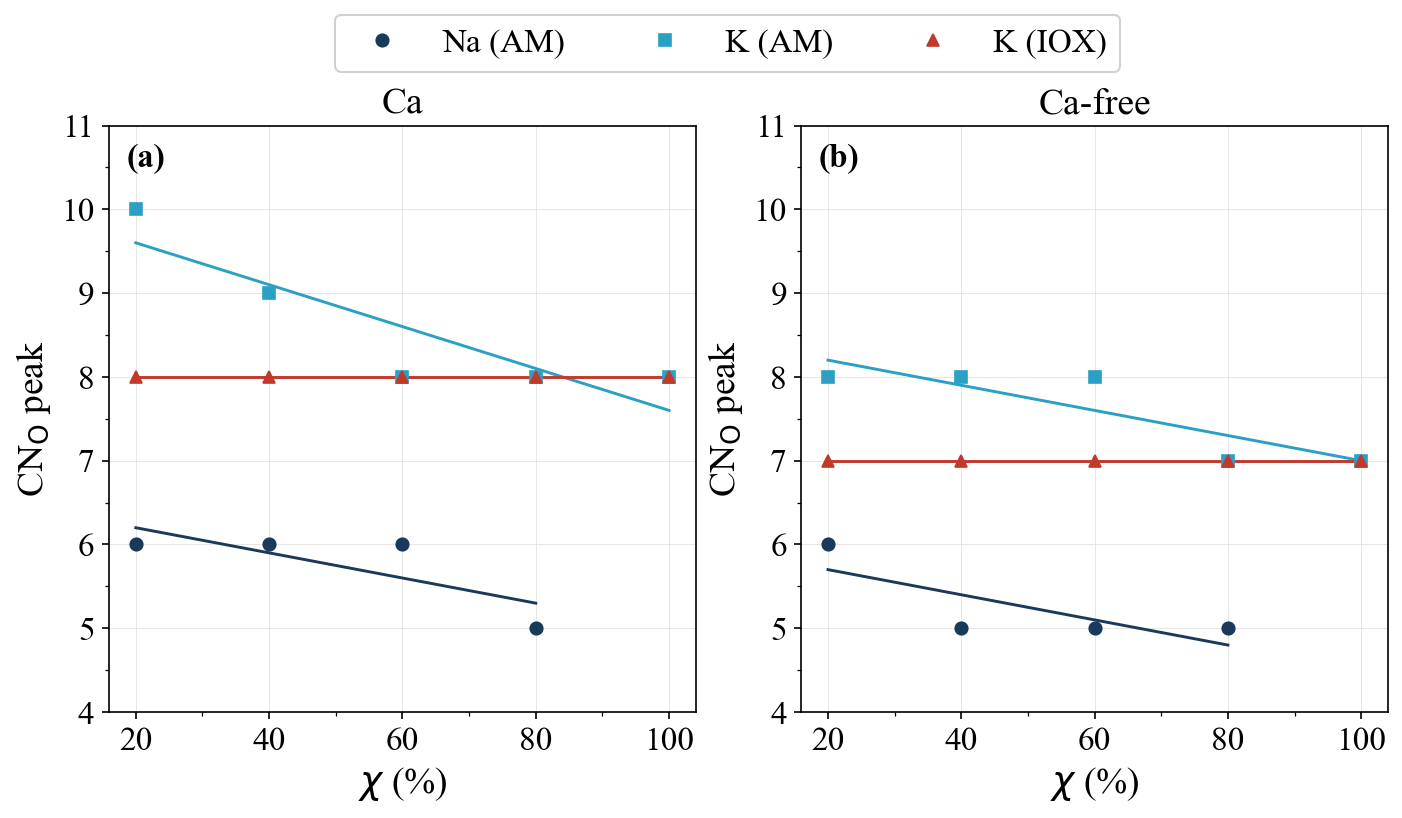
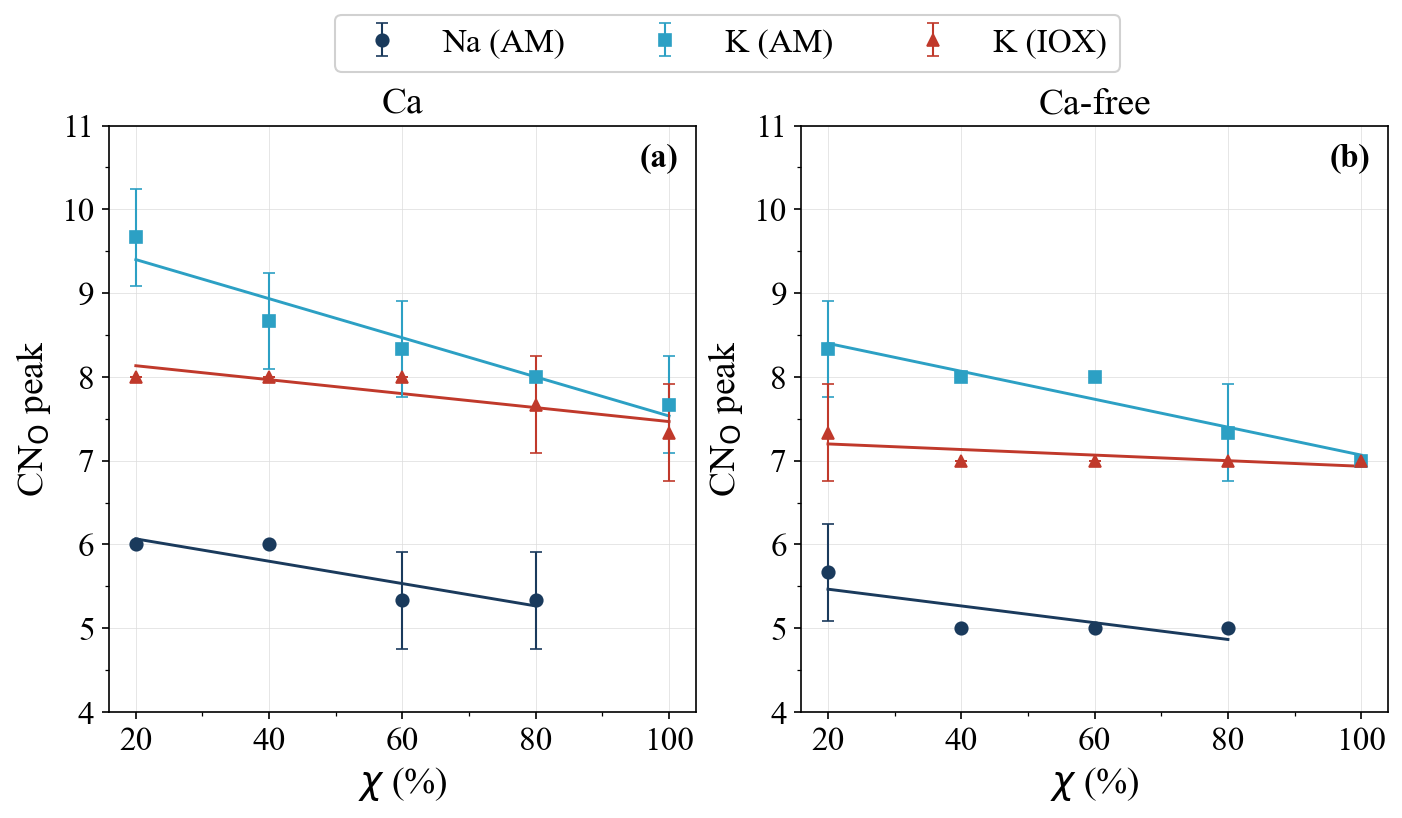
fig_cn_av_peaks_vs_chi: CN_O peak averaged over the 3 replicas with error bars
New dedicated script: the CN_O peak (mode of the O-coordination distribution, same cutoffs as
before) is computed per replica; the point is the mean of the 3 peaks and the error bar is the
sample standard deviation between replicas. Na is shown for chi = 20-80 only. Panel letters in
the upper-right corner. fig_peaks_vs_chi.py keeps the pooled-replica version under a different
file name so it no longer overwrites this figure.

diff --git a/COMPARISON/fig_cn_av_peaks_vs_chi.py b/COMPARISON/fig_cn_av_peaks_vs_chi.py
@@ -1,0 +1,156 @@
+"""
+fig_cn_av_peaks_vs_chi.py
+Pico (moda) del CN_O vs chi — Na(AM), K(AM), K(IOX) — promediado sobre las 3 replicas.
+
+Para cada chi, serie y replica (r=1,2,3) se calcula la moda de la distribucion de CN_O de los
+cationes (O dentro del radio de corte). Punto = media de las 3 modas; barra de error =
+desviacion estandar muestral (n-1) entre replicas. Ajuste lineal sobre las medias.
+
+Radios de corte: Na-O 3.21 A, K-O 3.77 A (AM), K-O 3.49 A (IOX; promedio Na/K).
+El Na solo se muestra en chi = 20-80 (en chi = 100 no hay Na; XX_CONFIG usa x=0 de relleno).
+2 paneles: Ca | Ca-free.
+"""
+
+import sys
+from pathlib import Path
+
+import numpy as np
+import matplotlib.pyplot as plt
+import matplotlib.ticker as ticker
+from scipy.spatial import cKDTree
+
+HERE = Path(__file__).parent
+BASE = HERE.parent
+sys.path.insert(0, str(HERE))
+from paper_style import FS_LABEL, FS_TEXT, apply_rcparams, make_fig, panel_letter, relabel
+apply_rcparams()
+
+CAO_AM_DIR    = BASE / "75SiO2_15-xNa2O_xK2O_10CaO" / "STAGE1_MELTQUENCH" / "data" / "asmelted_723K"
+CAO_IEX1_DIR  = BASE / "75SiO2_15-xNa2O_xK2O_10CaO" / "STAGE3_IEX_PROTO1" / "data" / "iox1_723K"
+NOCA_AM_DIR   = BASE / "75SiO2_25-xNa2O_xK2O"        / "STAGE1_MELTQUENCH" / "data" / "asmelted_723K"
+NOCA_IEX1_DIR = BASE / "75SiO2_25-xNa2O_xK2O"        / "STAGE3_IEX_PROTO1" / "data" / "iox1_723K"
+
+RCUT_NA, RCUT_K = 3.21, 3.77
+RCUT_IEX = (RCUT_NA + RCUT_K) / 2.0
+TYPE_O, TYPE_NA, TYPE_K = 2, 4, 5
+REPLICAS = (1, 2, 3)
+
+XX_CONFIG = {
+    20:  (3,  3,  3,  5,  5,  5),
+    40:  (6,  6,  6,  10, 10, 10),
+    60:  (9,  9,  9,  15, 15, 15),
+    80:  (12, 12, 12, 20, 20, 20),
+    100: (0,  15, 15, 0,  25, 25),
+}
+CHI = np.array(sorted(XX_CONFIG), dtype=float)
+
+
+def read_data(path):
+    box, lo = np.zeros(3), np.zeros(3)
+    atoms, section = [], None
+    with open(path) as fh:
+        for line in fh:
+            s = line.strip()
+            if not s:
+                continue
+            if "xlo xhi" in s:
+                lo[0], hi = float(s.split()[0]), float(s.split()[1])
+                box[0] = hi - lo[0]
+                continue
+            elif "ylo yhi" in s:
+                lo[1], hi = float(s.split()[0]), float(s.split()[1])
+                box[1] = hi - lo[1]
+                continue
+            elif "zlo zhi" in s:
+                lo[2], hi = float(s.split()[0]), float(s.split()[1])
+                box[2] = hi - lo[2]
+                continue
+            if s[0].isalpha():
+                section = "atoms" if s.startswith("Atoms") else None
+                continue
+            if section == "atoms":
+                p = s.split()
+                atoms.append((int(p[1]), float(p[3]), float(p[4]), float(p[5])))
+    atoms = np.array(atoms)
+    return atoms[:, 1:4] - lo, atoms[:, 0].astype(int), box
+
+
+def replica_peak(path, center_type, rcut):
+    """Moda del CN_O de los cationes center_type en un archivo de datos."""
+    pos, types, box = read_data(path)
+    pos = np.mod(pos, box)
+    o_tree = cKDTree(pos[types == TYPE_O], boxsize=box)
+    cn = o_tree.query_ball_point(pos[types == center_type], rcut, return_length=True)
+    return float(np.argmax(np.bincount(np.asarray(cn, dtype=int))))
+
+
+def series_stats(dirpath, pat, x, center_type, rcut):
+    pk = np.array([replica_peak(dirpath / pat.format(x=x, r=r), center_type, rcut) for r in REPLICAS])
+    return pk.mean(), pk.std(ddof=1)
+
+
+AM_PAT = "AsMelted_723K_x{x}_r{r}_PMMCS_rc8p0.data"
+IEX_PAT = "IOX1_723K_xt{x}_r{r}_PMMCS_rc8p0.data"
+
+mean = {s: {k: np.full(len(CHI), np.nan) for k in ("na", "ka", "ki")} for s in ("cao", "noca")}
+sd = {s: {k: np.full(len(CHI), np.nan) for k in ("na", "ka", "ki")} for s in ("cao", "noca")}
+
+for ix, (XX, (xna_c, xka_c, xt_c, xna_n, xka_n, xt_n)) in enumerate(sorted(XX_CONFIG.items())):
+    print(f"XX={XX}%...")
+    jobs = {
+        ("cao", "na"):   (CAO_AM_DIR,   AM_PAT,  xna_c, TYPE_NA, RCUT_NA),
+        ("cao", "ka"):   (CAO_AM_DIR,   AM_PAT,  xka_c, TYPE_K,  RCUT_K),
+        ("cao", "ki"):   (CAO_IEX1_DIR, IEX_PAT, xt_c,  TYPE_K,  RCUT_IEX),
+        ("noca", "na"):  (NOCA_AM_DIR,   AM_PAT,  xna_n, TYPE_NA, RCUT_NA),
+        ("noca", "ka"):  (NOCA_AM_DIR,   AM_PAT,  xka_n, TYPE_K,  RCUT_K),
+        ("noca", "ki"):  (NOCA_IEX1_DIR, IEX_PAT, xt_n,  TYPE_K,  RCUT_IEX),
+    }
+    for (sys_, key), (d, pat, x, ctype, rcut) in jobs.items():
+        if key == "na" and XX == 100:      # en chi=100 no hay Na
+            continue
+        mean[sys_][key][ix], sd[sys_][key][ix] = series_stats(d, pat, x, ctype, rcut)
+
+SERIES = [
+    ("na", "#1a3a5c", "o", relabel("Na (As-Melted)")),
+    ("ka", "#2ca0c4", "s", relabel("K (As-Melted)")),
+    ("ki", "#c0392b", "^", relabel("K (Ion-Exchanged)")),
+]
+
+fig, axes = make_fig(1, 2)
+for col, (letter, (sys_, title)) in enumerate(zip(("(a)", "(b)"), (("cao", "10CaO"), ("noca", "Ca-free")))):
+    ax = axes[col]
+    for key, color, marker, label in SERIES:
+        y, e = mean[sys_][key], sd[sys_][key]
+        ok = ~np.isnan(y)
+        ax.errorbar(CHI[ok], y[ok], yerr=e[ok], color=color, marker=marker, ls="none", ms=6, mew=0.8,
+                    capsize=3, elinewidth=1.0, label=label, zorder=3)
+        m, b = np.polyfit(CHI[ok], y[ok], 1)
+        xf = np.linspace(CHI[ok].min(), CHI[ok].max(), 200)
+        ax.plot(xf, m * xf + b, color=color, lw=1.4, label="_nolegend_", zorder=2)
+    ax.set_title(relabel(title), fontsize=FS_LABEL)
+    panel_letter(ax, letter, x=0.97, y=0.97, ha="right")
+    ax.set_xlabel(r"$\chi$ (%)", fontsize=FS_LABEL)
+    ax.set_ylabel(r"CN$_\mathrm{O}$ peak", fontsize=FS_LABEL)
+    ax.set_ylim(4, 11)
+    ax.xaxis.set_major_locator(ticker.MultipleLocator(20))
+    ax.xaxis.set_minor_locator(ticker.AutoMinorLocator(2))
+    ax.yaxis.set_minor_locator(ticker.AutoMinorLocator(2))
+    ax.tick_params(labelsize=FS_TEXT, which="both")
+    ax.grid(lw=0.35, color="#dddddd", zorder=0)
+    for sp in ax.spines.values():
+        sp.set_visible(True)
+        sp.set_linewidth(0.8)
+
+handles, labels = axes[0].get_legend_handles_labels()
+fig.legend(handles, labels, loc="upper center", bbox_to_anchor=(0.5, 0.99), ncol=3, fontsize=FS_TEXT,
+           frameon=True, framealpha=0.9, edgecolor="#cccccc")
+fig.subplots_adjust(top=0.85, wspace=0.18)
+
+out = HERE / "fig_cn_av_peaks_vs_chi.pdf"
+fig.savefig(out, dpi=300, bbox_inches="tight")
+fig.savefig(out.with_suffix(".png"), dpi=150, bbox_inches="tight")
+print(f"Guardado: {out.name}")
+
+for sys_ in ("cao", "noca"):
+    for key in ("na", "ka", "ki"):
+        print(sys_, key, " ".join(f"{m:.2f}±{s:.2f}" for m, s in zip(mean[sys_][key], sd[sys_][key])))

diff --git a/COMPARISON/fig_peaks_vs_chi.py b/COMPARISON/fig_peaks_vs_chi.py
@@ -272,7 +272,7 @@ handles, labels = axes3[0].get_legend_handles_labels()
 fig3.legend(handles, labels, loc='upper center', bbox_to_anchor=(0.5, 0.99),
             ncol=3, fontsize=FS_TEXT, frameon=True, framealpha=0.9, edgecolor='#cccccc')
 fig3.subplots_adjust(top=0.85, wspace=0.18)
-out3 = HERE / 'fig_cn_av_peaks_vs_chi.pdf'
+out3 = HERE / 'fig_cn_av_peaks_pooled_vs_chi.pdf'
 fig3.savefig(out3, dpi=300, bbox_inches='tight')
 fig3.savefig(out3.with_suffix('.png'), dpi=150, bbox_inches='tight')
 print(f"Guardado: {out3.name}")
